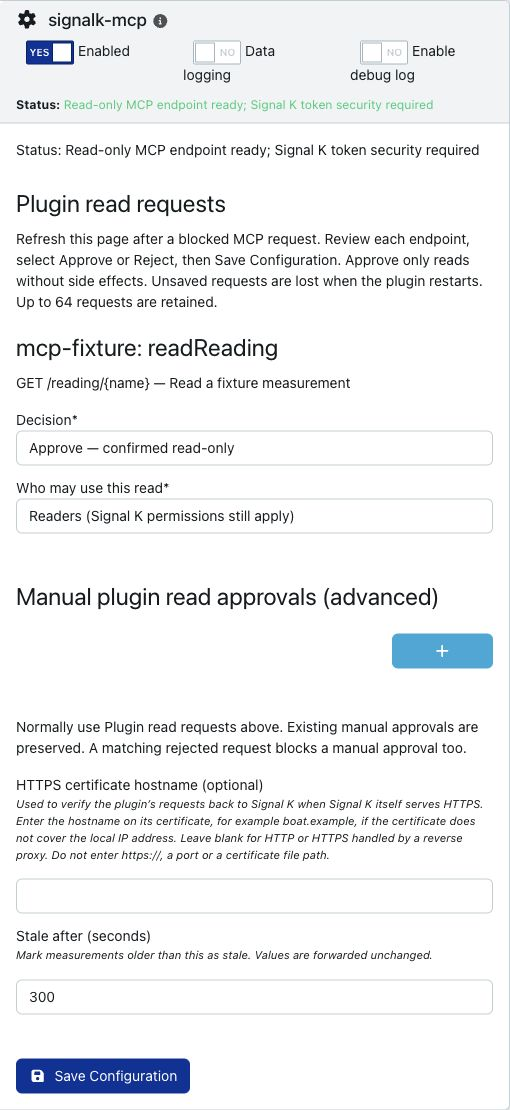
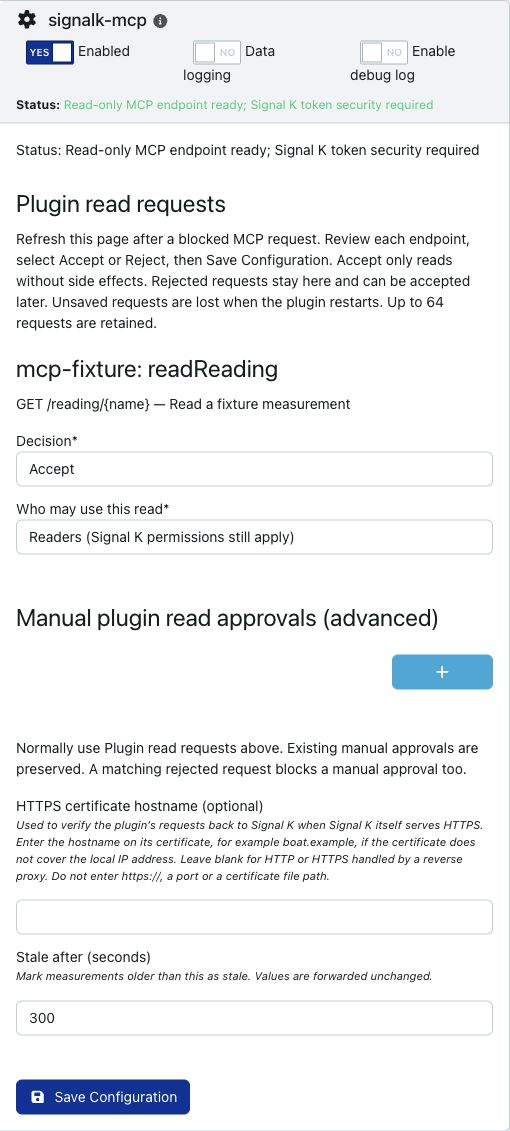
fix: clarify native approval decisions and retained rejections

diff --git a/src/approvals.ts b/src/approvals.ts
@@ -91,7 +91,7 @@ export class ApprovalRequests {
       title: "Plugin read requests",
       additionalProperties: false,
       description:
-        "Refresh this page after a blocked MCP request. Review each endpoint, select Approve or Reject, then Save Configuration. Approve only reads without side effects. Unsaved requests are lost when the plugin restarts. Up to 64 requests are retained.",
+        "Refresh this page after a blocked MCP request. Review each endpoint, select Accept or Reject, then Save Configuration. Accept only reads without side effects. Rejected requests stay here and can be accepted later. Unsaved requests are lost when the plugin restarts. Up to 64 requests are retained.",
       properties: Object.fromEntries(
         Object.entries(this.reviews).map(([key, review]) => [
           key,
@@ -133,7 +133,7 @@ export class ApprovalRequests {
                 default: review.decision,
                 oneOf: [
                   { const: "pending", title: "Pending review" },
-                  { const: "approved", title: "Approve — confirmed read-only" },
+                  { const: "approved", title: "Accept" },
                   { const: "rejected", title: "Reject" },
                 ],
               },

diff --git a/README.md b/README.md
@@ -95,10 +95,10 @@ All plugin operations start disabled. When a client attempts a discovered, suppo
 
 1. Refresh **Apps & Plugins → Configuration → Signal K MCP**.
 2. Under **Plugin read requests**, review the plugin, operation and endpoint. Provider descriptions are untrusted information; check the handler's side effects and data authorization.
-3. Select **Approve — confirmed read-only** or **Reject**, optionally restrict the read to administrators, then **Save Configuration**.
+3. Select **Accept** or **Reject**, optionally restrict the read to administrators, then **Save Configuration**.
 4. Ask the client to retry after approval. Approval never bypasses Signal K or provider permissions.
 
-Unsaved requests live in memory and disappear on plugin/server restart, including a settings save from a stale page. Refresh before reviewing. Saved decisions survive restarts; rejected requests stay blocked without creating duplicates. The queue holds at most 64 entries, including saved reviews; when full, new requests return `APPROVAL_QUEUE_FULL`. To remove old entries, an administrator can remove the corresponding `readRequests` entries from the saved plugin configuration while the plugin is disabled. Removing a decision revokes that review's approval and allows a later request to be reviewed again. No arguments, tokens or data values are retained.
+Unsaved requests live in memory and disappear on plugin/server restart, including a settings save from a stale page. Refresh before reviewing. Saved decisions survive restarts; rejected requests stay visible and blocked without creating duplicates. To change a rejection later, select **Accept** and **Save Configuration**. The queue holds at most 64 entries, including saved reviews; when full, new requests return `APPROVAL_QUEUE_FULL`. To remove old entries, an administrator can remove the corresponding `readRequests` entries from the saved plugin configuration while the plugin is disabled. Removing a decision revokes that review's approval and allows a later request to be reviewed again. No arguments, tokens or data values are retained.
 
 Reviews bind the exact plugin, operation, GET path, supported input schema and description. Changed metadata requires another review; unchanged metadata cannot prove an unchanged implementation, so review provider upgrades too. A matching rejected review also overrides a manual approval. Writes, ambiguous operations and unsupported schemas never enter this queue. There is no MCP approval/configuration-write tool.
 

diff --git a/docs/verification.md b/docs/verification.md
@@ -144,3 +144,5 @@ Eligible blocked reads now return `APPROVAL_PENDING` and appear in native Plugin
 Full local checks on Node 24.22.0 / Signal K 2.33.0 and Node 22.23.3 / Signal K 2.32.0 pass 37 portable tests and 48 native entries, with two opt-in product clients skipped. Python MCP and real isolated History are enabled. Native tests cover admin-only configuration saves, pending/approve/reject/retry, saved decisions, schema changes and original-caller enforcement; the unchanged published Alert Center fixture also queues an eligible read while its writes remain disabled.
 
 The native form was inspected at 1280×900 and 390×844. Approving a synthetic read, saving and reloading succeeded; a second pending request appeared alongside the saved approval and could be rejected/saved on mobile. The mobile settings card has no horizontal overflow (380px content width and scroll width). The settings-only screenshot is refreshed. No live vessel data, deployment or npm publication was involved.
+
+The final native decision selector uses Pending review / Accept / Reject with Save Configuration. A synthetic rejection remained visible after saving and reloading, and accepting that same request on mobile saved successfully and survived another reload. The settings-only screenshot reflects these labels. The Node 24 / Signal K 2.33.0 full check was rerun successfully (37 portable tests, 48 native passes, two opt-in skips); no custom configurator or frontend dependencies were added.
